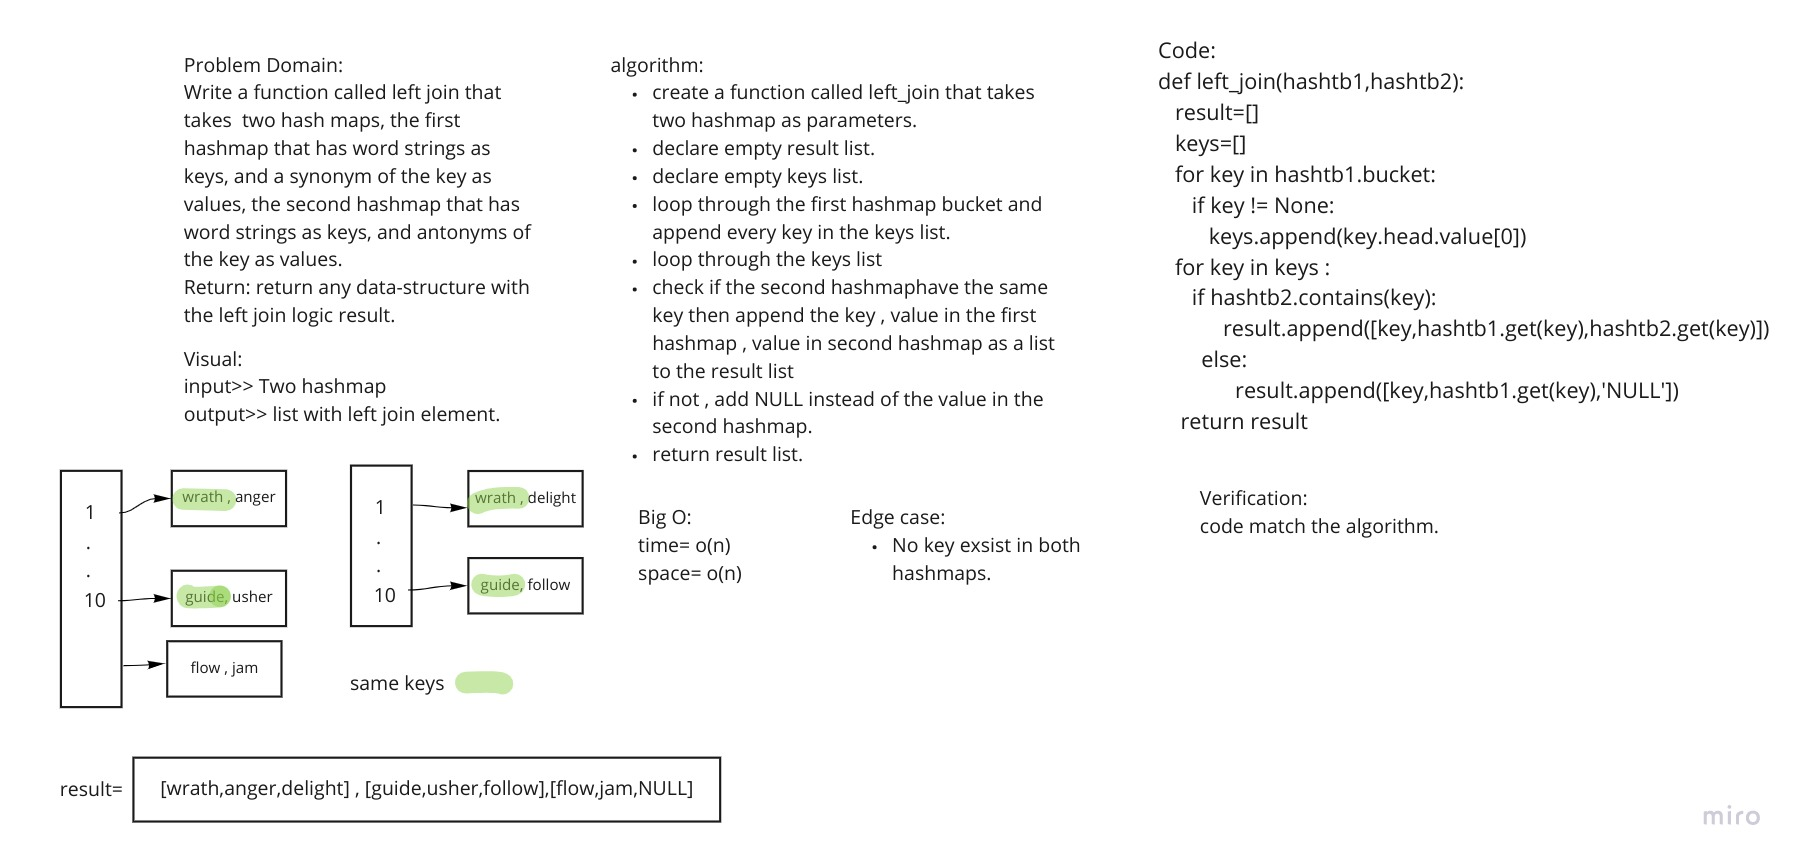
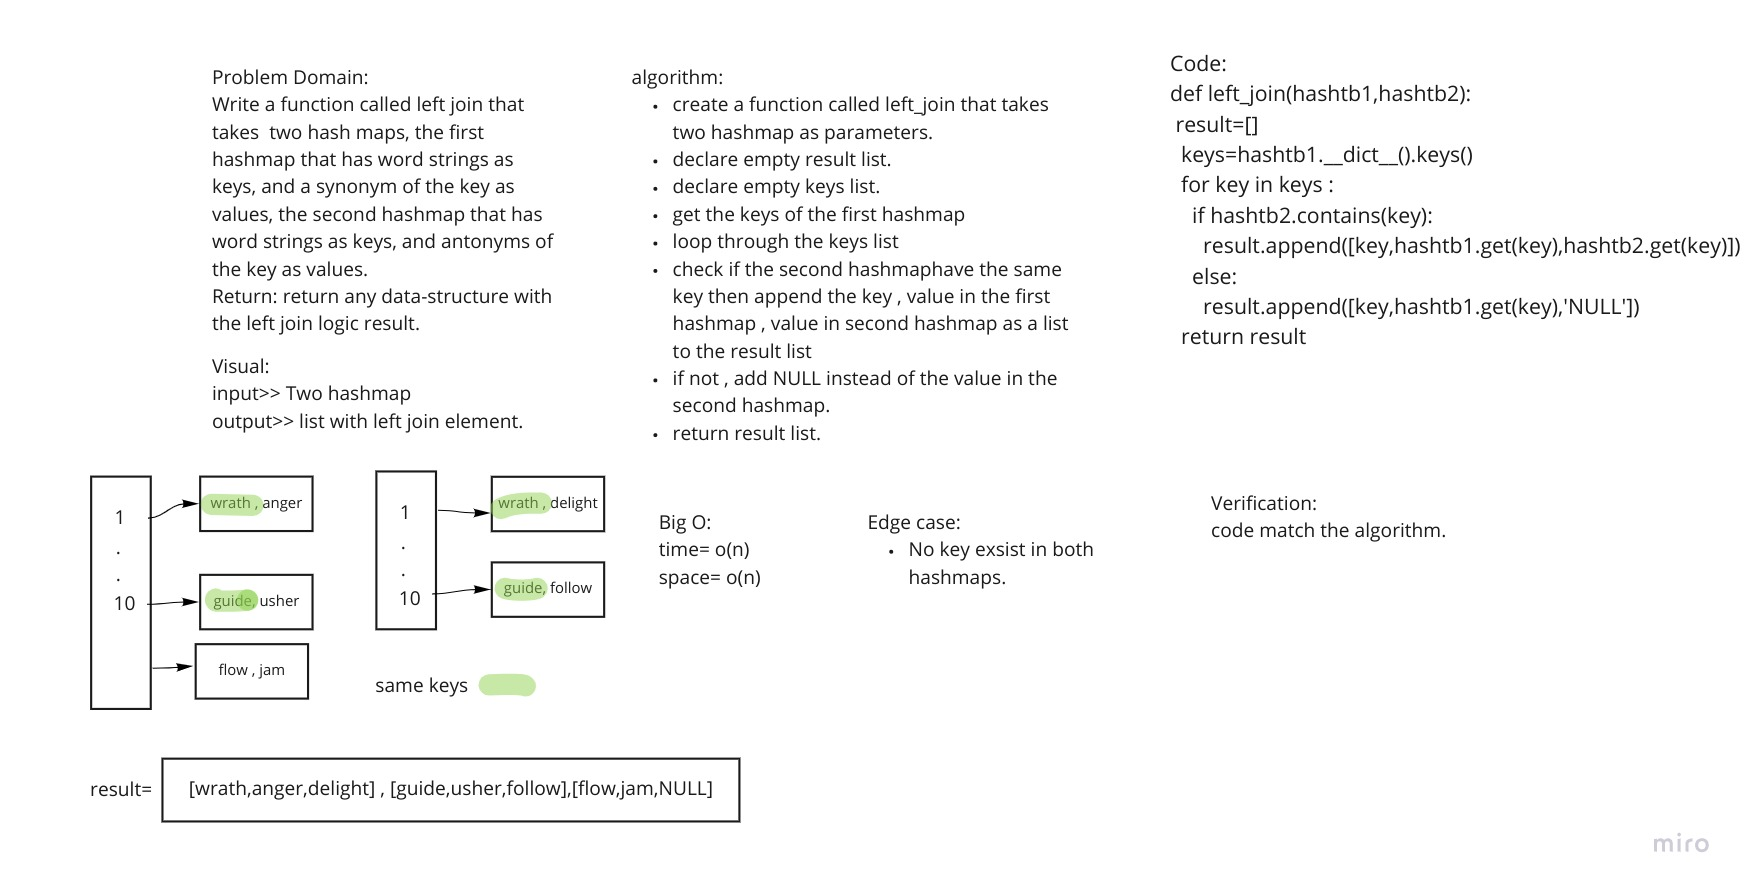
fix code

diff --git a/python/hash-table/hash_table/hash_table.py b/python/hash-table/hash_table/hash_table.py
@@ -22,7 +22,7 @@ class LinkedList:
 class HashTable:
 
   def __init__(self,size=1024) -> None:
-      self.bucket=[None]* size
+      self._bucket=[None]* size
       self.size= size
 
   def add(self,key,value):
@@ -35,9 +35,9 @@ class HashTable:
 
     index = self.hash(key)
 
-    if self.bucket[index]== None:
-      self.bucket[index]=LinkedList()
-    self.bucket[index].insert([key,value])
+    if self._bucket[index]== None:
+      self._bucket[index]=LinkedList()
+    self._bucket[index].insert([key,value])
 
 
 
@@ -50,10 +50,10 @@ class HashTable:
     """
 
     index = self.hash(key)
-    if self.bucket[index]== None:
+    if self._bucket[index]== None:
       return None
     else:
-      current = self.bucket[index].head
+      current = self._bucket[index].head
       while current:
         if current.value[0] == key:
             return current.value[1]
@@ -69,10 +69,10 @@ class HashTable:
     """
 
     index = self.hash(key)
-    if self.bucket[index] == None:
+    if self._bucket[index] == None:
       return False
     else:
-      current = self.bucket[index].head
+      current = self._bucket[index].head
       while current:
         if current.value[0] == key:
             return True
@@ -93,6 +93,12 @@ class HashTable:
     index = value * 5 % self.size
     return index
 
+  def __dict__(self):
+    dct={}
+    for key in self._bucket:
+      if key != None:
+        dct[key.head.value[0]]=key.head.value[1]
+    return dct
 
 if __name__ == "__main__":
   hash=HashTable()
@@ -103,6 +109,3 @@ if __name__ == "__main__":
   print(hash.get('22'))
   print(hash.contains('16'))
   print(hash.contains('1'))
-  for i in hash.bucket:
-    if i != None:
-      print ( i.head.value[0])

diff --git a/python/hash-table/hash_table/left_join.py b/python/hash-table/hash_table/left_join.py
@@ -3,10 +3,7 @@ from hash_table.hash_table import HashTable
 
 def left_join(hashtb1,hashtb2):
   result=[]
-  keys=[]
-  for key in hashtb1.bucket:
-    if key != None:
-      keys.append(key.head.value[0])
+  keys=hashtb1.__dict__().keys()
   for key in keys :
     if hashtb2.contains(key):
       result.append([key,hashtb1.get(key),hashtb2.get(key)])
